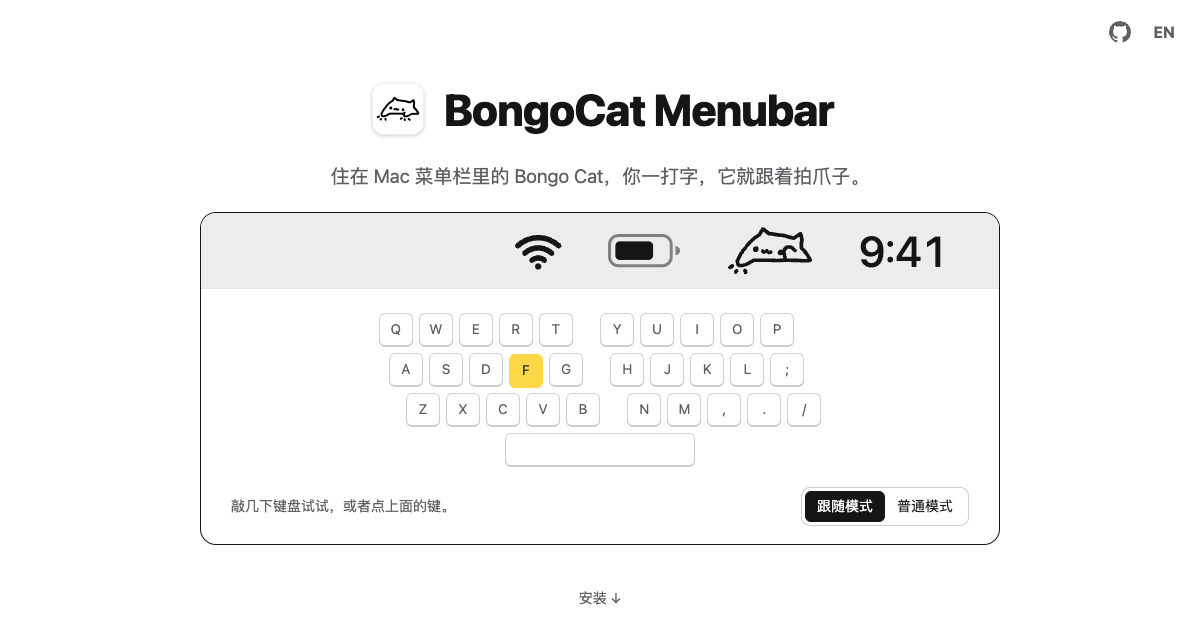
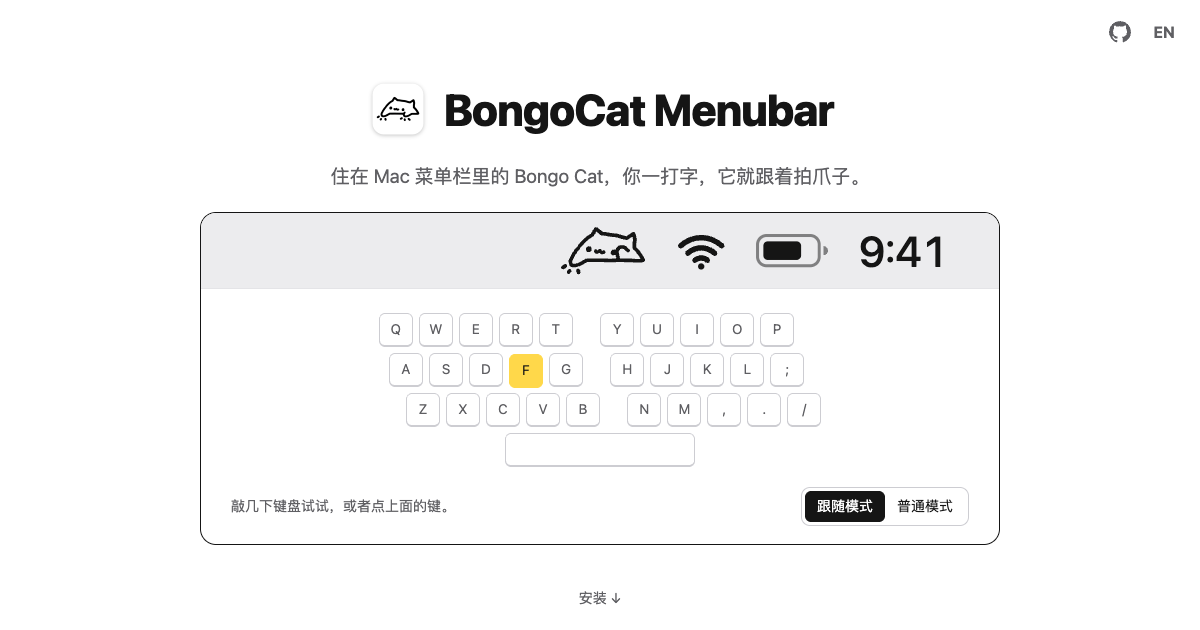
docs: 演示菜单栏改为小猫、WiFi、电池、时钟靠右排在一起，间距收紧并重录 GIF

Changed region(s): [[0.4317, 0.3619, 0.7092, 0.4524]]

diff --git a/site/index.html b/site/index.html
@@ -33,12 +33,12 @@
   <main>
     <section class="hero">
       <div class="title"><img src="assets/icon-128.png" alt="" width="64" height="64"><h1>BongoCat Menubar</h1></div>
-      <p class="lede">住在 Mac 菜单栏里的 Bongo Cat，你一打字，它就跟着拍爪子。</p>
+      <p class="lede">住在 Mac 菜单栏里的 Bongo Cat，<span class="nw">你一打字，它就跟着拍爪子。</span></p>
       <figure class="demo" aria-label="演示：放大后的菜单栏右上角。敲键盘或点下面的键，小猫跟着拍爪子">
         <div class="demo-bar">
+          <span class="cat" data-frame="idle" aria-hidden="true"><i class="idle"></i><i class="a"></i><i class="b"></i><i class="both"></i></span>
           <svg class="sym wifi" viewBox="0 0 24 18" aria-hidden="true"><g fill="none" stroke="currentColor" stroke-width="2.6" stroke-linecap="round"><path d="M2.2 6.6a14.2 14.2 0 0 1 19.6 0"/><path d="M5.6 10.1a9.3 9.3 0 0 1 12.8 0"/><path d="M9 13.5a4.5 4.5 0 0 1 6 0"/></g><circle cx="12" cy="16.4" r="1.5" fill="currentColor"/></svg>
           <svg class="sym batt" viewBox="0 0 30 14" aria-hidden="true"><rect x="1" y="1" width="24.5" height="12" rx="3.6" fill="none" stroke="currentColor" stroke-width="1.2" opacity=".5"/><rect x="3.3" y="3.3" width="15" height="7.4" rx="1.8" fill="currentColor"/><path d="M27.2 5.2v3.6a1.8 1.8 0 0 0 0-3.6Z" fill="currentColor" opacity=".5"/></svg>
-          <span class="cat" data-frame="idle" aria-hidden="true"><i class="idle"></i><i class="a"></i><i class="b"></i><i class="both"></i></span>
           <span class="clock" aria-hidden="true">12:14</span>
         </div>
         <div class="keyboard" aria-hidden="true">

diff --git a/site/style.css b/site/style.css
@@ -68,9 +68,10 @@ h1 { margin: 0; font-size: clamp(28px, 4.2vw, 44px); line-height: 1.15; letter-s
 .demo { width: min(100%, 800px); margin: 0; padding: 0 0 18px; border: 1.5px solid var(--ink); border-radius: 16px; overflow: hidden; background: var(--paper); }
 /* Menu bar, magnified. Everything is sized in --u (one menu bar point) with the
    real macOS proportions: bar 24pt, app icon 16pt tall, Wi-Fi about 16 x 12pt,
-   battery about 24 x 11pt, clock in 13.5pt text, about 14pt between items. */
+   battery about 24 x 11pt, clock in 13.5pt text. Status items sit together on the
+   right, about 9pt apart; the left of the bar stays empty. */
 .demo-bar { --u: clamp(1.8px, min(.4vw, .5vh, (100vw - 40px) / 176), 4.25px);
-  display: flex; align-items: center; justify-content: flex-end; gap: calc(14 * var(--u)); height: calc(24 * var(--u));
+  display: flex; align-items: center; justify-content: flex-end; gap: calc(9 * var(--u)); height: calc(24 * var(--u));
   padding: 0 calc(16 * var(--u)); background: var(--bar); border-bottom: 1px solid var(--rule); }
 .demo-bar .cat { height: calc(16 * var(--u)); }
 .demo-bar .sym { flex: none; color: var(--ink); }
@@ -139,3 +140,4 @@ details p { margin: -4px 0 18px; color: var(--pencil); }
   .demo-foot { flex-direction: column; }
   .keyboard { --k: min(30px, calc((100vw - 32px - 24px - 9 * 4px - 14px) / 10.8)); --g: 4px; }
 }
+.nw { white-space: nowrap; }

diff --git a/site/en/index.html b/site/en/index.html
@@ -36,9 +36,9 @@
       <p class="lede">A Bongo Cat in your Mac menu bar that taps its paws as you type.</p>
       <figure class="demo" aria-label="Demo: the top right of the menu bar, magnified. Type or tap the keys below and the cat taps along">
         <div class="demo-bar">
+          <span class="cat" data-frame="idle" aria-hidden="true"><i class="idle"></i><i class="a"></i><i class="b"></i><i class="both"></i></span>
           <svg class="sym wifi" viewBox="0 0 24 18" aria-hidden="true"><g fill="none" stroke="currentColor" stroke-width="2.6" stroke-linecap="round"><path d="M2.2 6.6a14.2 14.2 0 0 1 19.6 0"/><path d="M5.6 10.1a9.3 9.3 0 0 1 12.8 0"/><path d="M9 13.5a4.5 4.5 0 0 1 6 0"/></g><circle cx="12" cy="16.4" r="1.5" fill="currentColor"/></svg>
           <svg class="sym batt" viewBox="0 0 30 14" aria-hidden="true"><rect x="1" y="1" width="24.5" height="12" rx="3.6" fill="none" stroke="currentColor" stroke-width="1.2" opacity=".5"/><rect x="3.3" y="3.3" width="15" height="7.4" rx="1.8" fill="currentColor"/><path d="M27.2 5.2v3.6a1.8 1.8 0 0 0 0-3.6Z" fill="currentColor" opacity=".5"/></svg>
-          <span class="cat" data-frame="idle" aria-hidden="true"><i class="idle"></i><i class="a"></i><i class="b"></i><i class="both"></i></span>
           <span class="clock" aria-hidden="true">12:14</span>
         </div>
         <div class="keyboard" aria-hidden="true">
